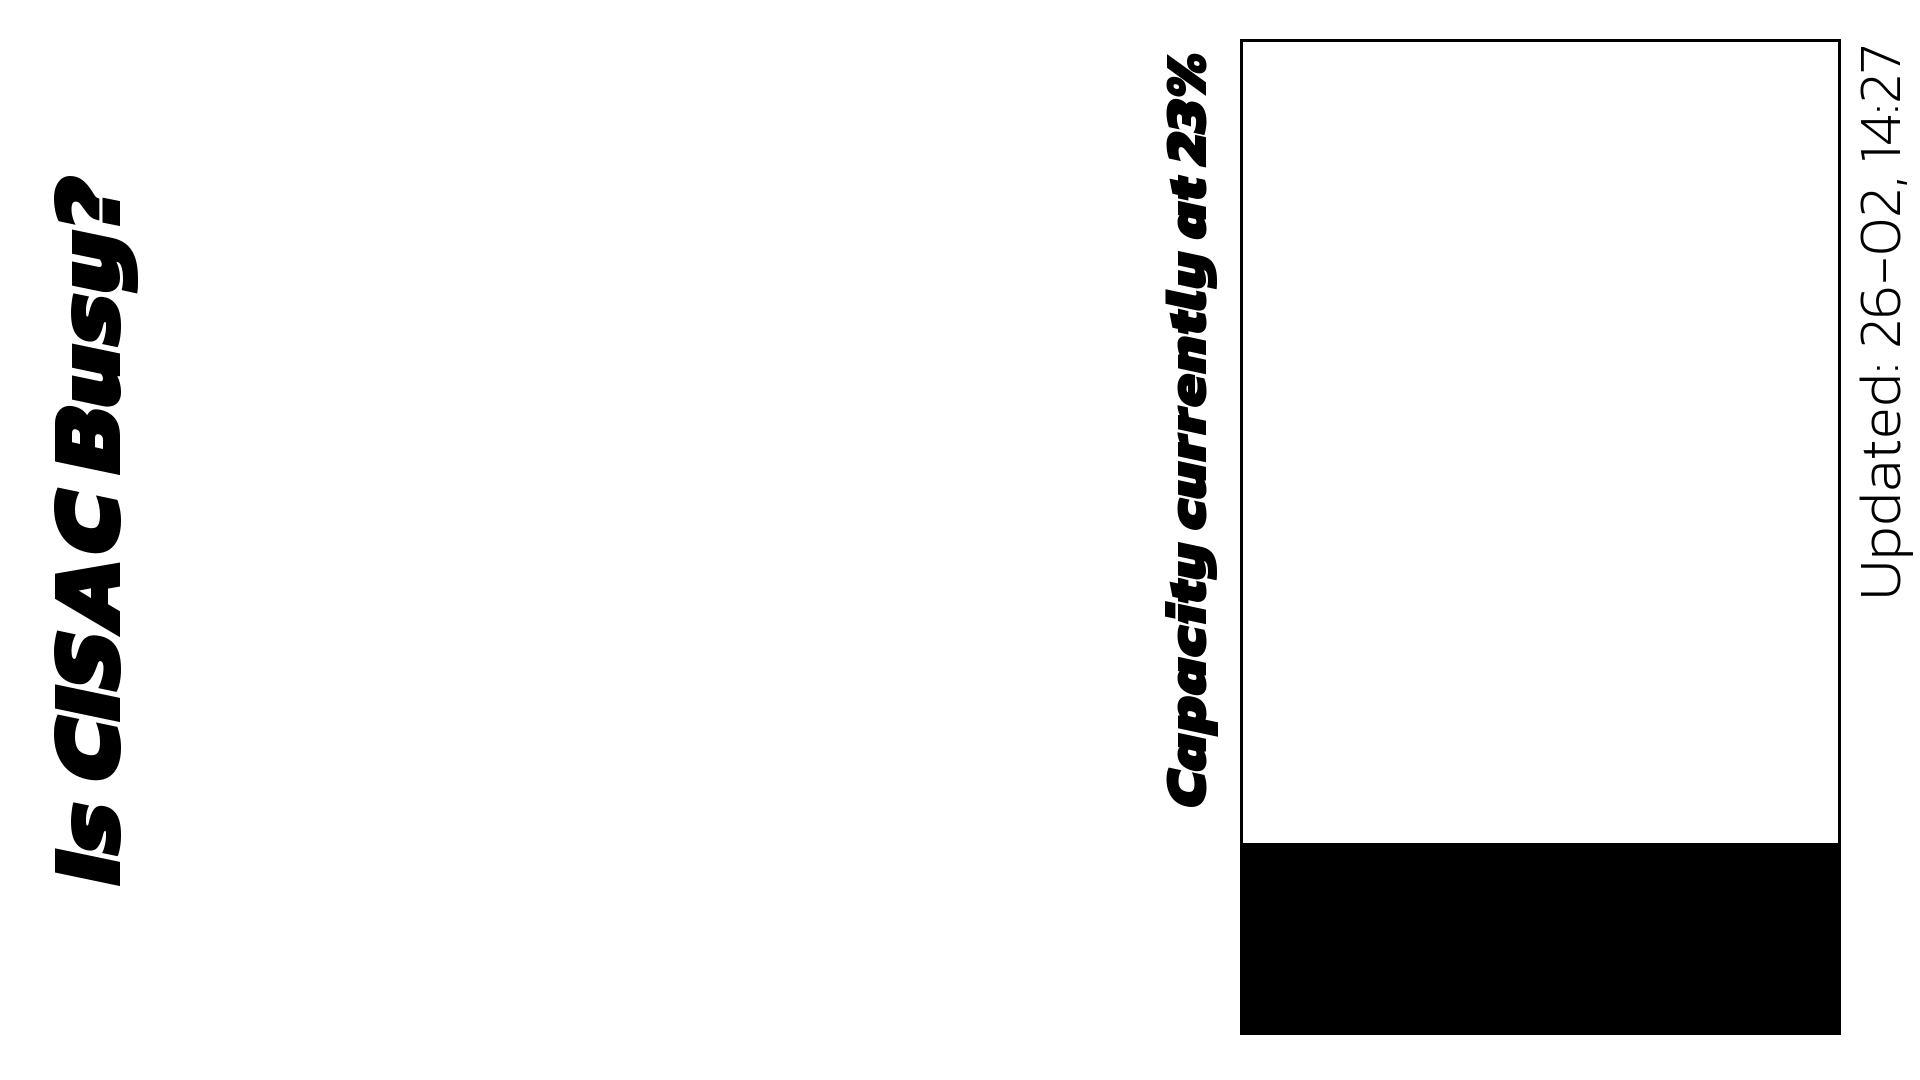
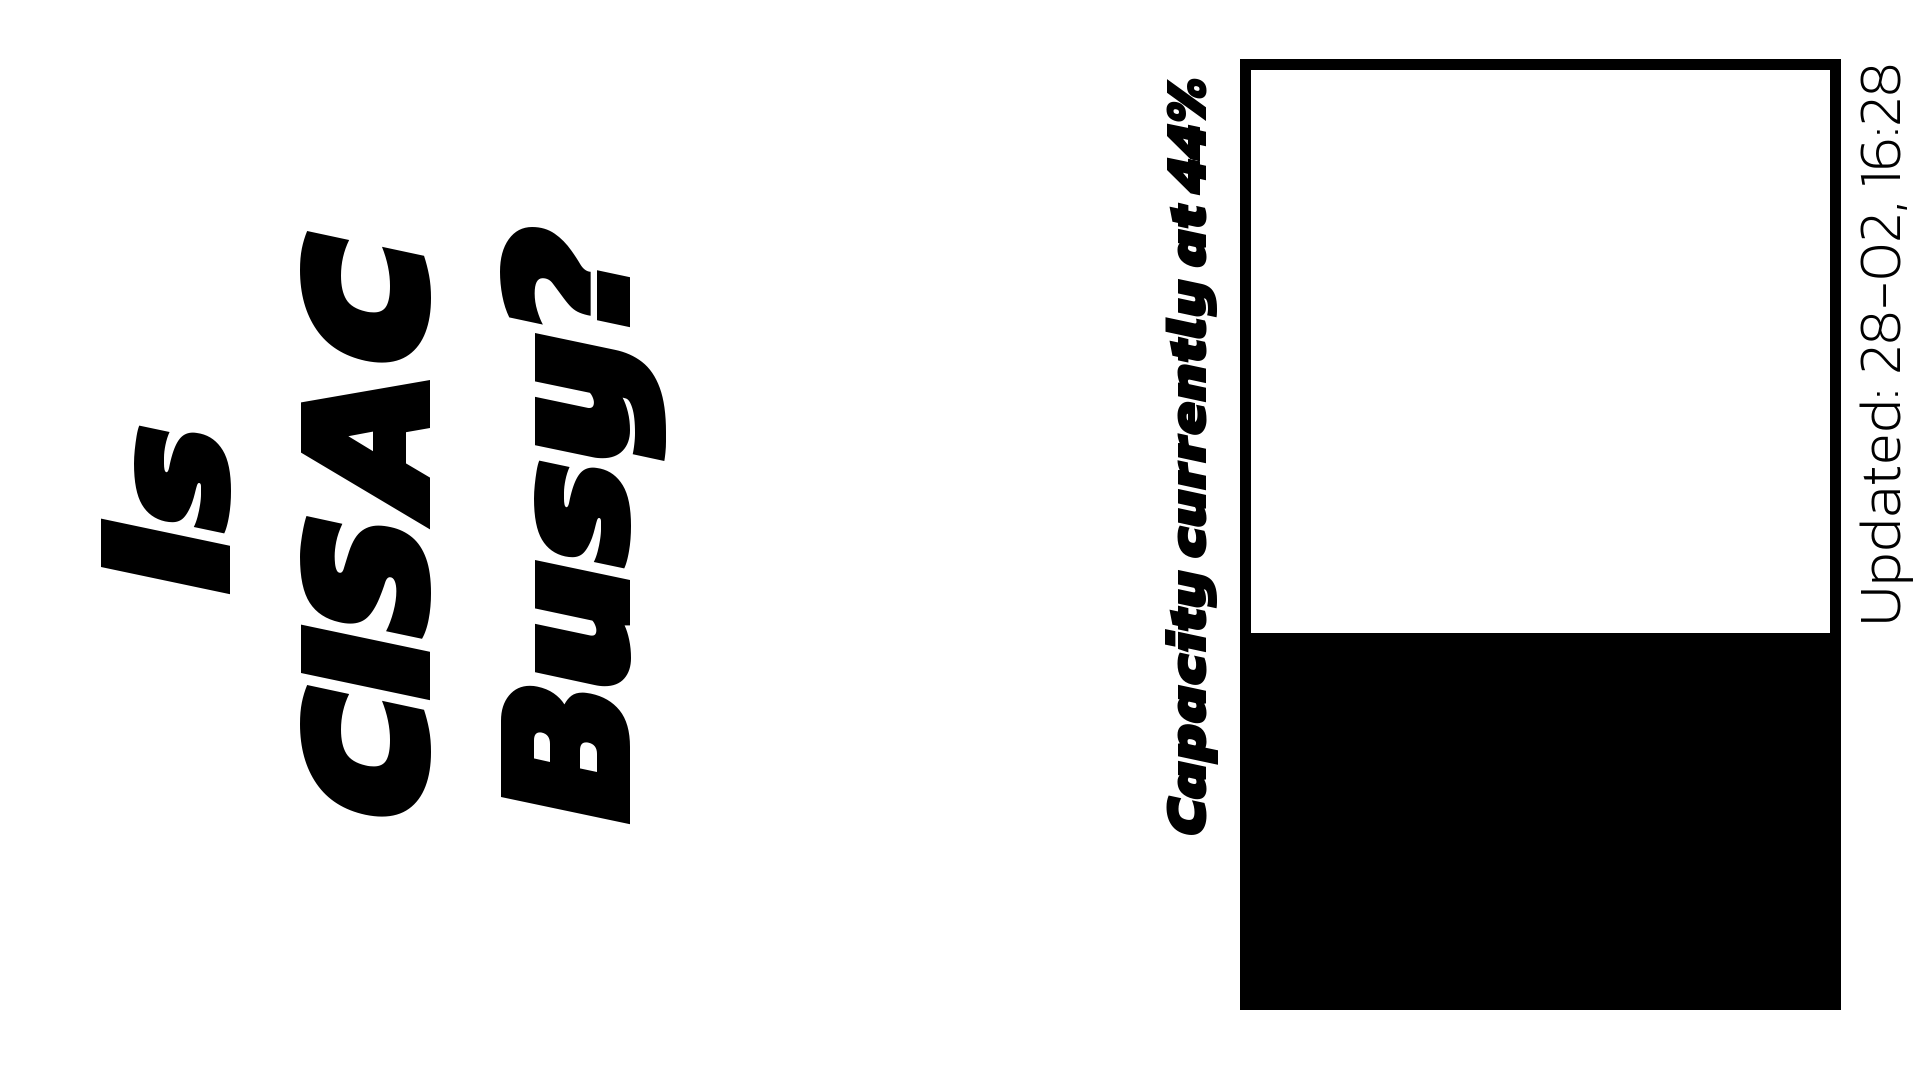
fixed UI bug and made tweaks

diff --git a/server/imagecreator.py b/server/imagecreator.py
@@ -148,7 +148,7 @@ def fetchNDrawGym():
 
     # draw the progress bar to given location, width, progress and color
     # x, y, w, h, progress
-    d = drawProgressBar(d, 100*upscaling, 620*upscaling, 420*upscaling, 300*upscaling, gymload,upscaling)
+    d = drawProgressBar(d, 35*upscaling, 620*upscaling, 475*upscaling, 300*upscaling, gymload,upscaling)
     outroate = out.transpose(Image.ROTATE_90)
     outroate.save("GYMLoadNow.png")
     img_path = "GYMLoadNow.png"
@@ -173,25 +173,27 @@ def fetchClassTimes():
 # https://stackoverflow.com/questions/66886200/how-do-you-make-a-progress-bar-and-put-it-on-an-image
 def drawProgressBar(d, x, y, w, h, progress, upscalingtext,bg="grey", fg="black"):
     # draw background
-    d.rectangle((x, y, x+w, y+h), outline ="black", width=3)
+    d.rectangle((x, y, x+w, y+h), outline ="black", width=11)
 
     # draw progress bar
     # w *= progress
     # box coords (x1,y1,x2,y2)
-    d.rectangle((x*progress/100, y, (x+w)*progress/100, y+h),fill=fg)
+    d.rectangle((x, y, (x+w)*progress/100, y+h),fill=fg)
 
-    fonttitle = ImageFont.truetype("kanitbold.ttf", 50*upscalingtext)
+    fonttitle = ImageFont.truetype("kanitbold.ttf", 100*upscalingtext)
     fontbodybold = ImageFont.truetype("kanitbold.ttf", 30*upscalingtext)
     fontbody = ImageFont.truetype("kanitlight.ttf", 30*upscalingtext)
     # TITLE
-    d.text((98*upscalingtext, 5*upscalingtext),"Is CISAC Busy?",(0,0,0),font=fonttitle)
+    d.text((245*upscalingtext, 5*upscalingtext),"Is",(0,0,0),font=fonttitle)
+    d.text((130*upscalingtext, 105*upscalingtext),"CISAC",(0,0,0),font=fonttitle)
+    d.text((130*upscalingtext, 205*upscalingtext),"Busy?",(0,0,0),font=fonttitle)
     # CAP TEXT
-    d.text((136*upscalingtext, 570*upscalingtext),"Capacity currently at "+str(math.ceil(progress))+"%",(0,0,0),font=fontbodybold)
+    d.text((122*upscalingtext, 570*upscalingtext),"Capacity currently at "+str(math.ceil(progress))+"%",(0,0,0),font=fontbodybold)
     # TIME TEXT
     current_time = datetime.now()
     # date_time = datetime.fromtimestamp(current_time)
     str_date_time = current_time.strftime("%d-%m, %H:%M")
-    d.text((240*upscalingtext, 917*upscalingtext),"Updated: " + str_date_time,(0,0,0),font=fontbody)
+    d.text((227*upscalingtext, 917*upscalingtext),"Updated: " + str_date_time,(0,0,0),font=fontbody)
 
     return d
 
